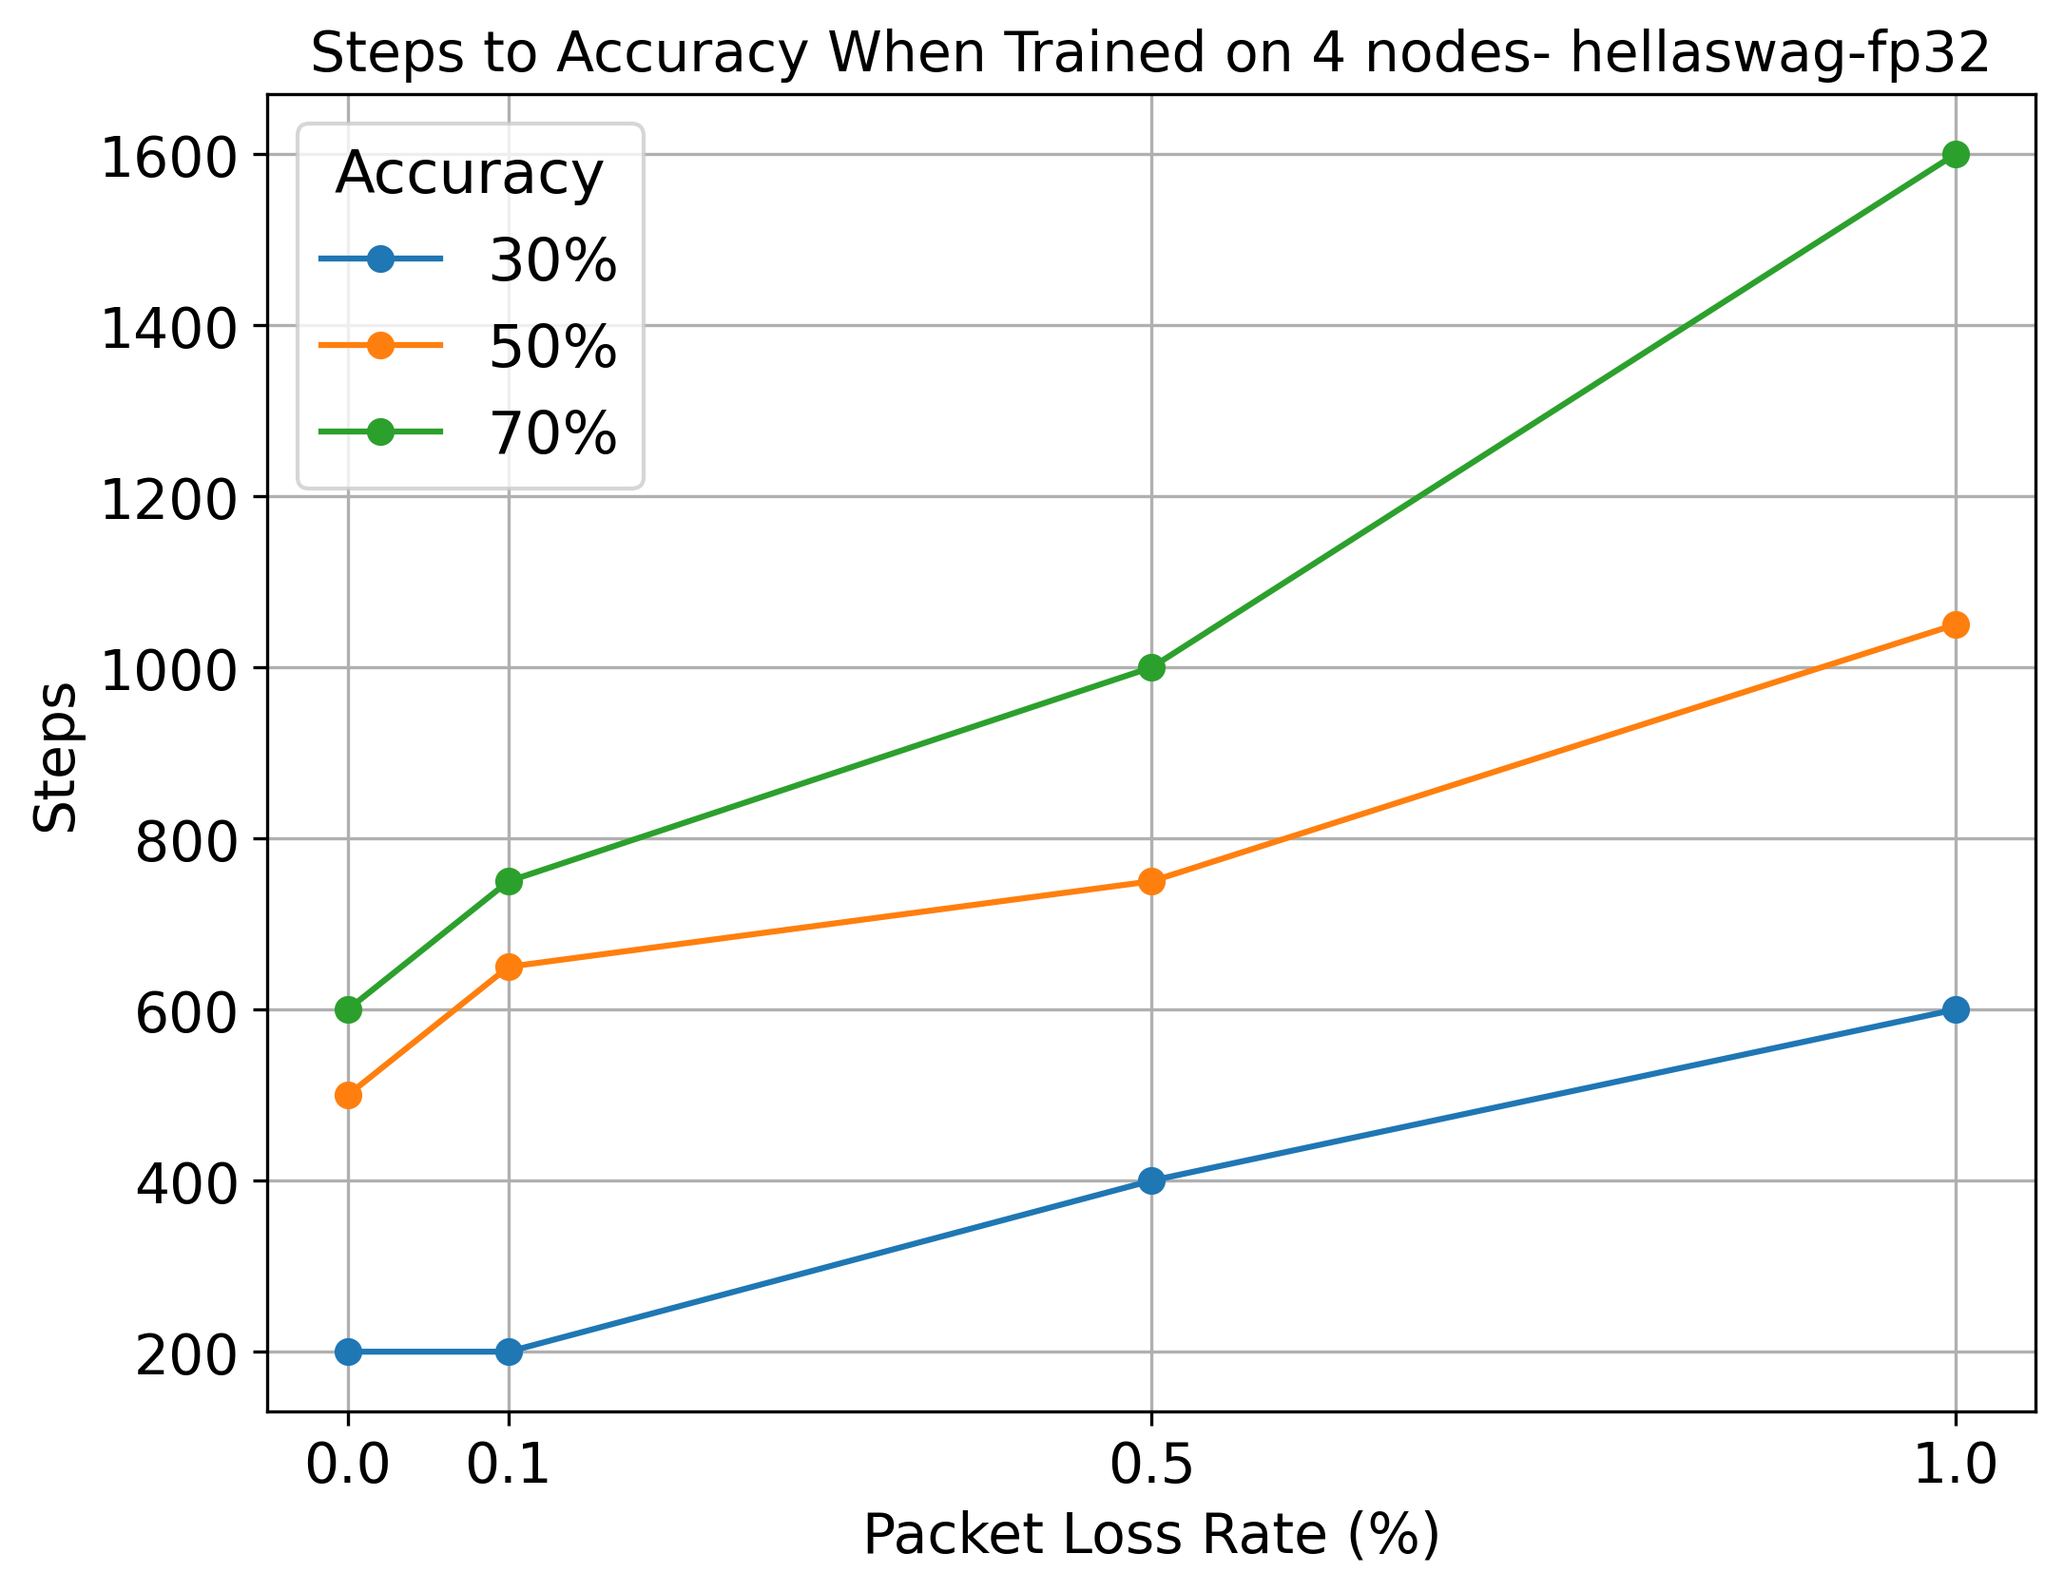
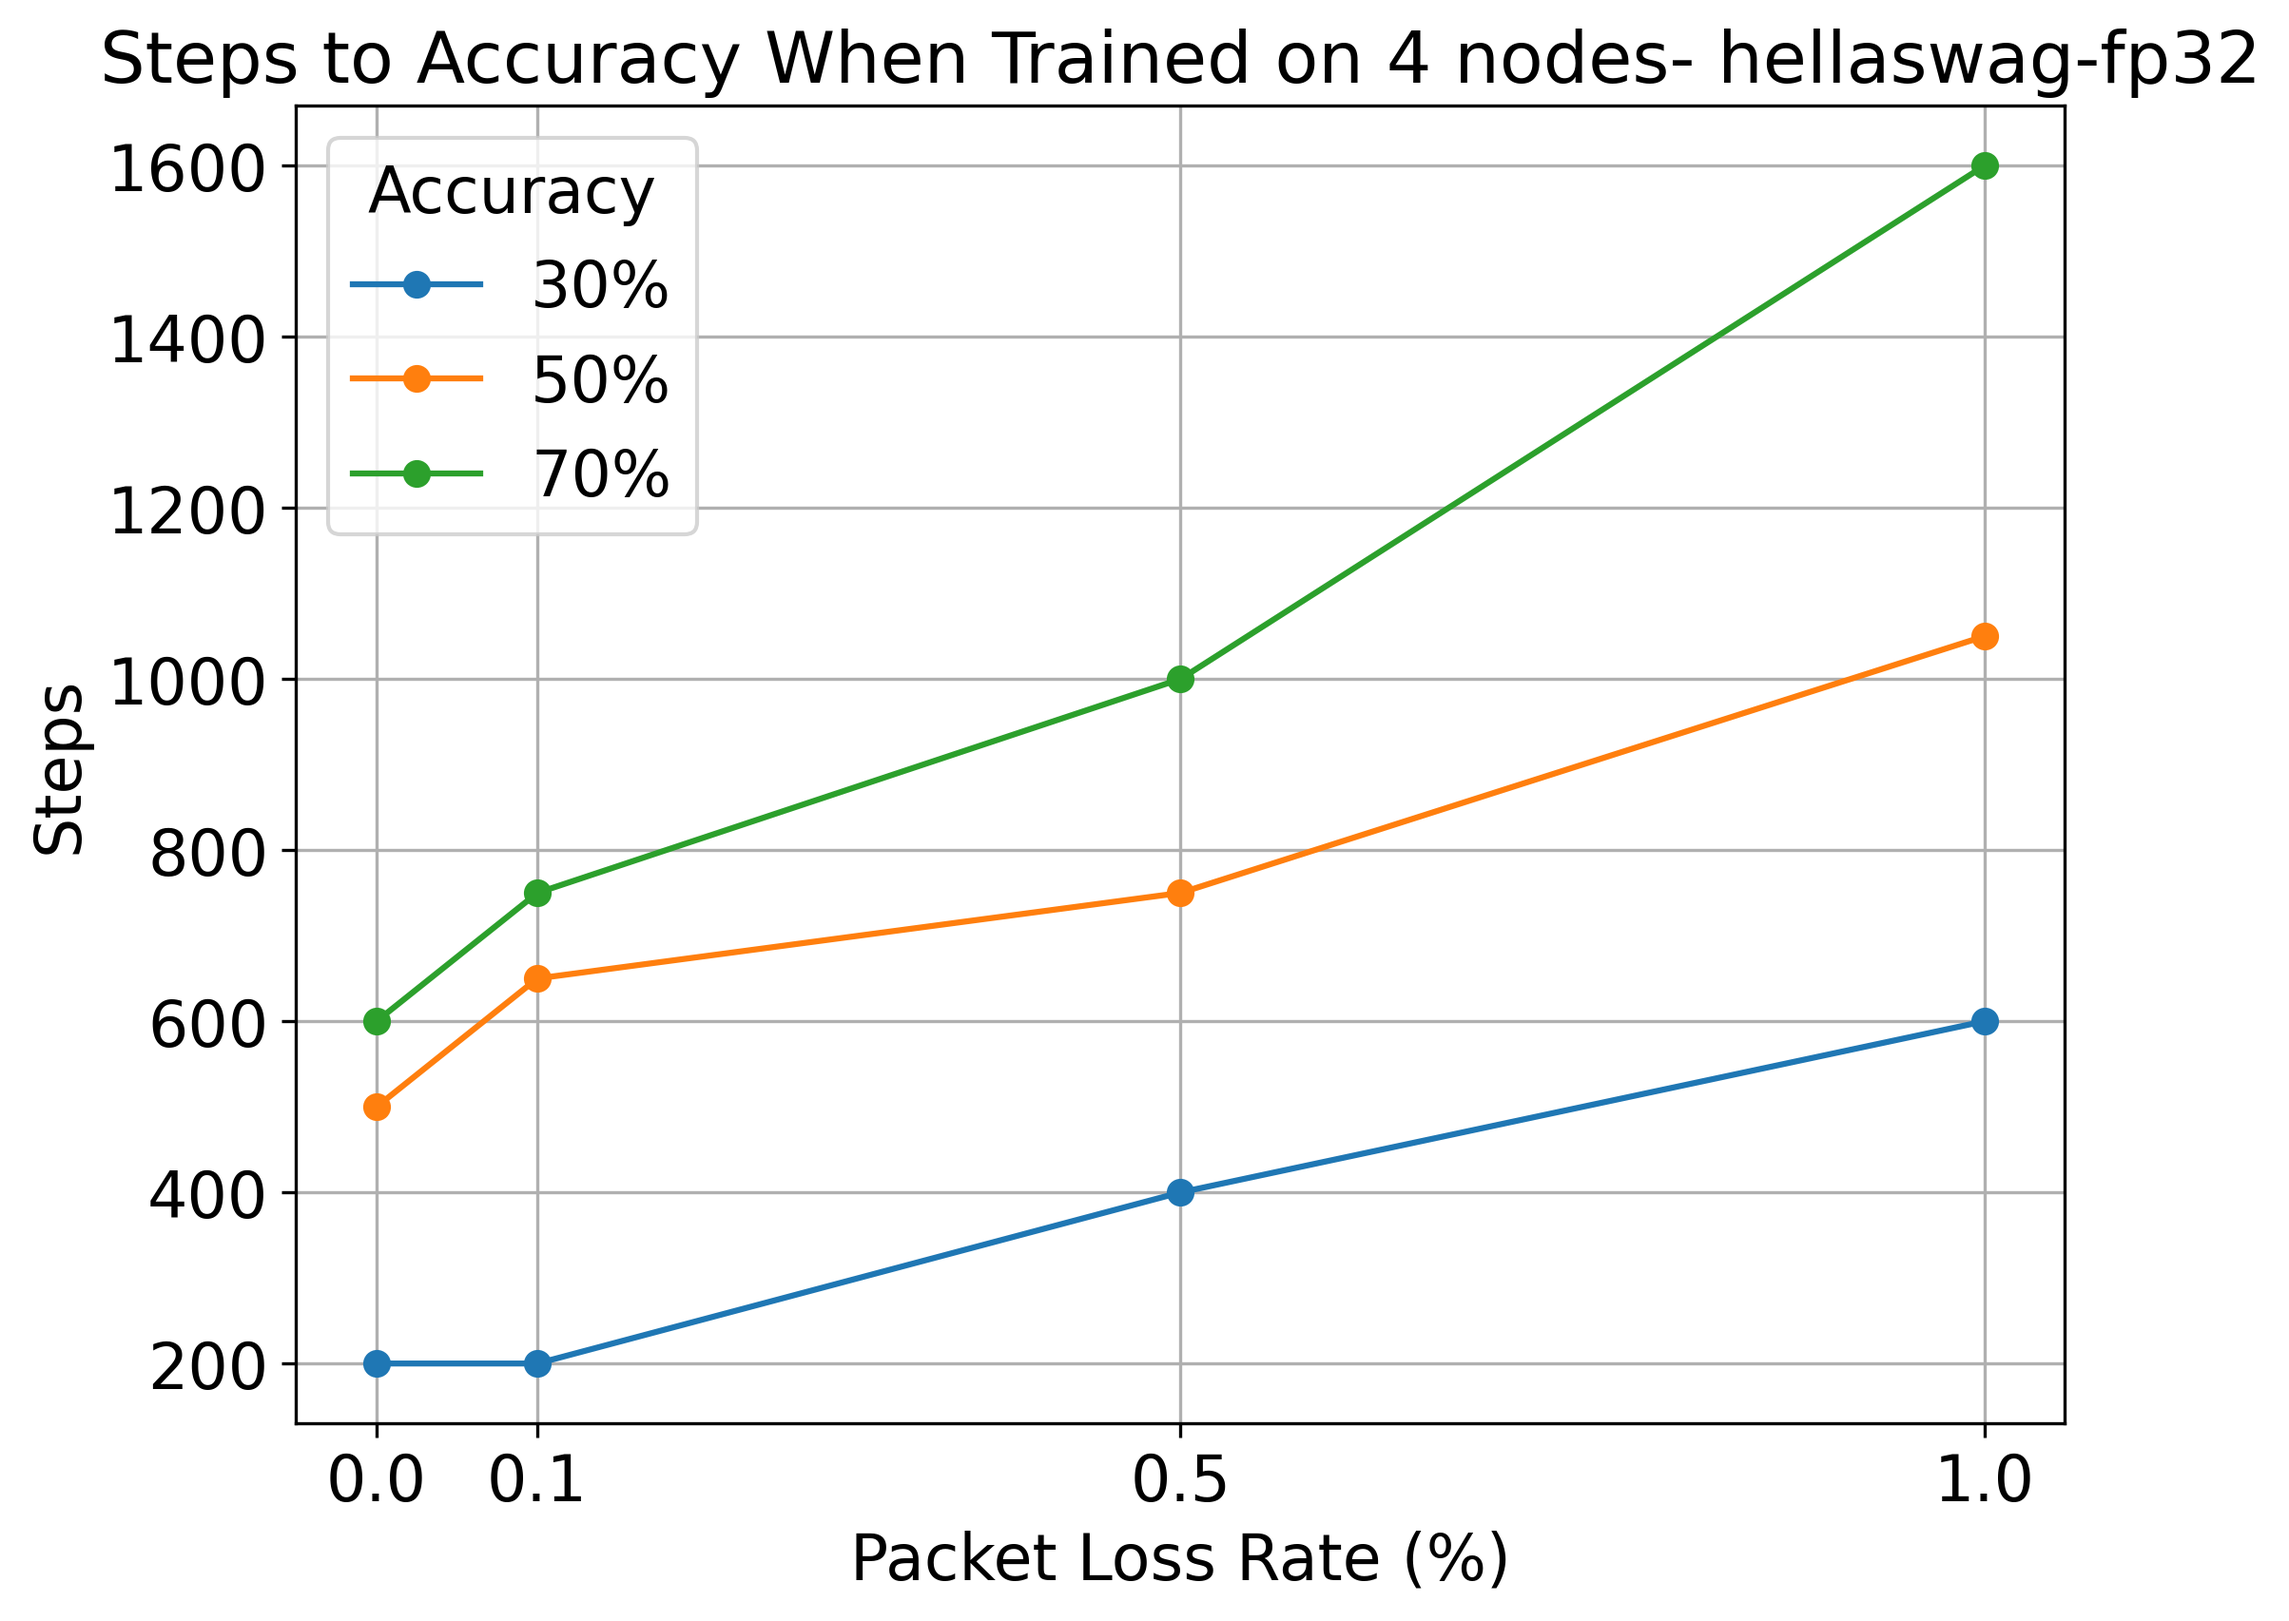
even bigger

diff --git a/plot_and_save_results.py b/plot_and_save_results.py
@@ -3,39 +3,39 @@ import matplotlib.pyplot as plt
 import os
 
 def plot_steps_vs_nodes(data, dataset_name, save_path, accuracy_threshold=0.75):
-    plt.rcParams.update({'font.size': 14})  # Set base font size
+    plt.rcParams.update({'font.size': 16})  # Set base font size
     fig, ax = plt.subplots(figsize=(8, 6), dpi=300)
-    ax.set_title(f"Steps Required to Reach {accuracy_threshold*100}% Accuracy - {dataset_name}", fontsize=14)
-    ax.set_xlabel("Node Count", fontsize=14)
-    ax.set_ylabel("Steps to Accuracy", fontsize=14)
+    ax.set_title(f"Steps Required to Reach {accuracy_threshold*100}% Accuracy - {dataset_name}", fontsize=18)
+    ax.set_xlabel("Node Count", fontsize=16)
+    ax.set_ylabel("Steps to Accuracy", fontsize=16)
     x = [2, 4, 6]
     ax.set_xticks(x)
-    ax.set_xticklabels(["2", "4", "6"], fontsize=14)
-    ax.tick_params(axis='both', which='major', labelsize=14)
+    ax.set_xticklabels(["2", "4", "6"], fontsize=16)
+    ax.tick_params(axis='both', which='major', labelsize=16)
     ax.plot(x, data["0"], label="0%", marker='o', color='blue')
     ax.plot(x, data["0.001"], label="0.1%", marker='o', color='orange')
     ax.plot(x, data["0.005"], label="0.5%", marker='o', color='green')
     ax.plot(x, data["0.01"], label="1.0%", marker='o', color='red')
-    ax.legend(title="Packet Loss Rate", title_fontsize=15, fontsize=15)
+    ax.legend(title="Packet Loss Rate", title_fontsize=16, fontsize=16)
     ax.grid()
     plt.savefig(save_path, bbox_inches='tight')
     plt.close()
 
 def plot_steps_vs_loss_rate(data, dataset_name, save_path):
-    plt.rcParams.update({'font.size': 14})  # Set base font size
+    plt.rcParams.update({'font.size': 16})  # Set base font size
     fig, ax = plt.subplots(figsize=(8, 6), dpi=300)
-    ax.set_title(f"Steps to Accuracy When Trained on 4 nodes- {dataset_name}", fontsize=14)
-    ax.set_xlabel("Packet Loss Rate (%)", fontsize=14)
-    ax.set_ylabel("Steps", fontsize=14)
+    ax.set_title(f"Steps to Accuracy When Trained on 4 nodes- {dataset_name}", fontsize=18)
+    ax.set_xlabel("Packet Loss Rate (%)", fontsize=16)
+    ax.set_ylabel("Steps", fontsize=16)
     x = [0.0, 0.1, 0.5, 1.0]
     ax.set_xticks(x)
-    ax.set_xticklabels([str(i) for i in x], fontsize=14)
-    ax.tick_params(axis='both', which='major', labelsize=14)
+    ax.set_xticklabels([str(i) for i in x], fontsize=16)
+    ax.tick_params(axis='both', which='major', labelsize=16)
     accuracies = list(data.keys())
     for i in range(len(accuracies)):
         acc = accuracies[i]
         ax.plot(x, data[acc], label=acc, marker='o')
-    ax.legend(title="Accuracy", title_fontsize=15, fontsize=15)
+    ax.legend(title="Accuracy", title_fontsize=16, fontsize=16)
     ax.grid()
 
     plt.savefig(save_path, bbox_inches='tight')
